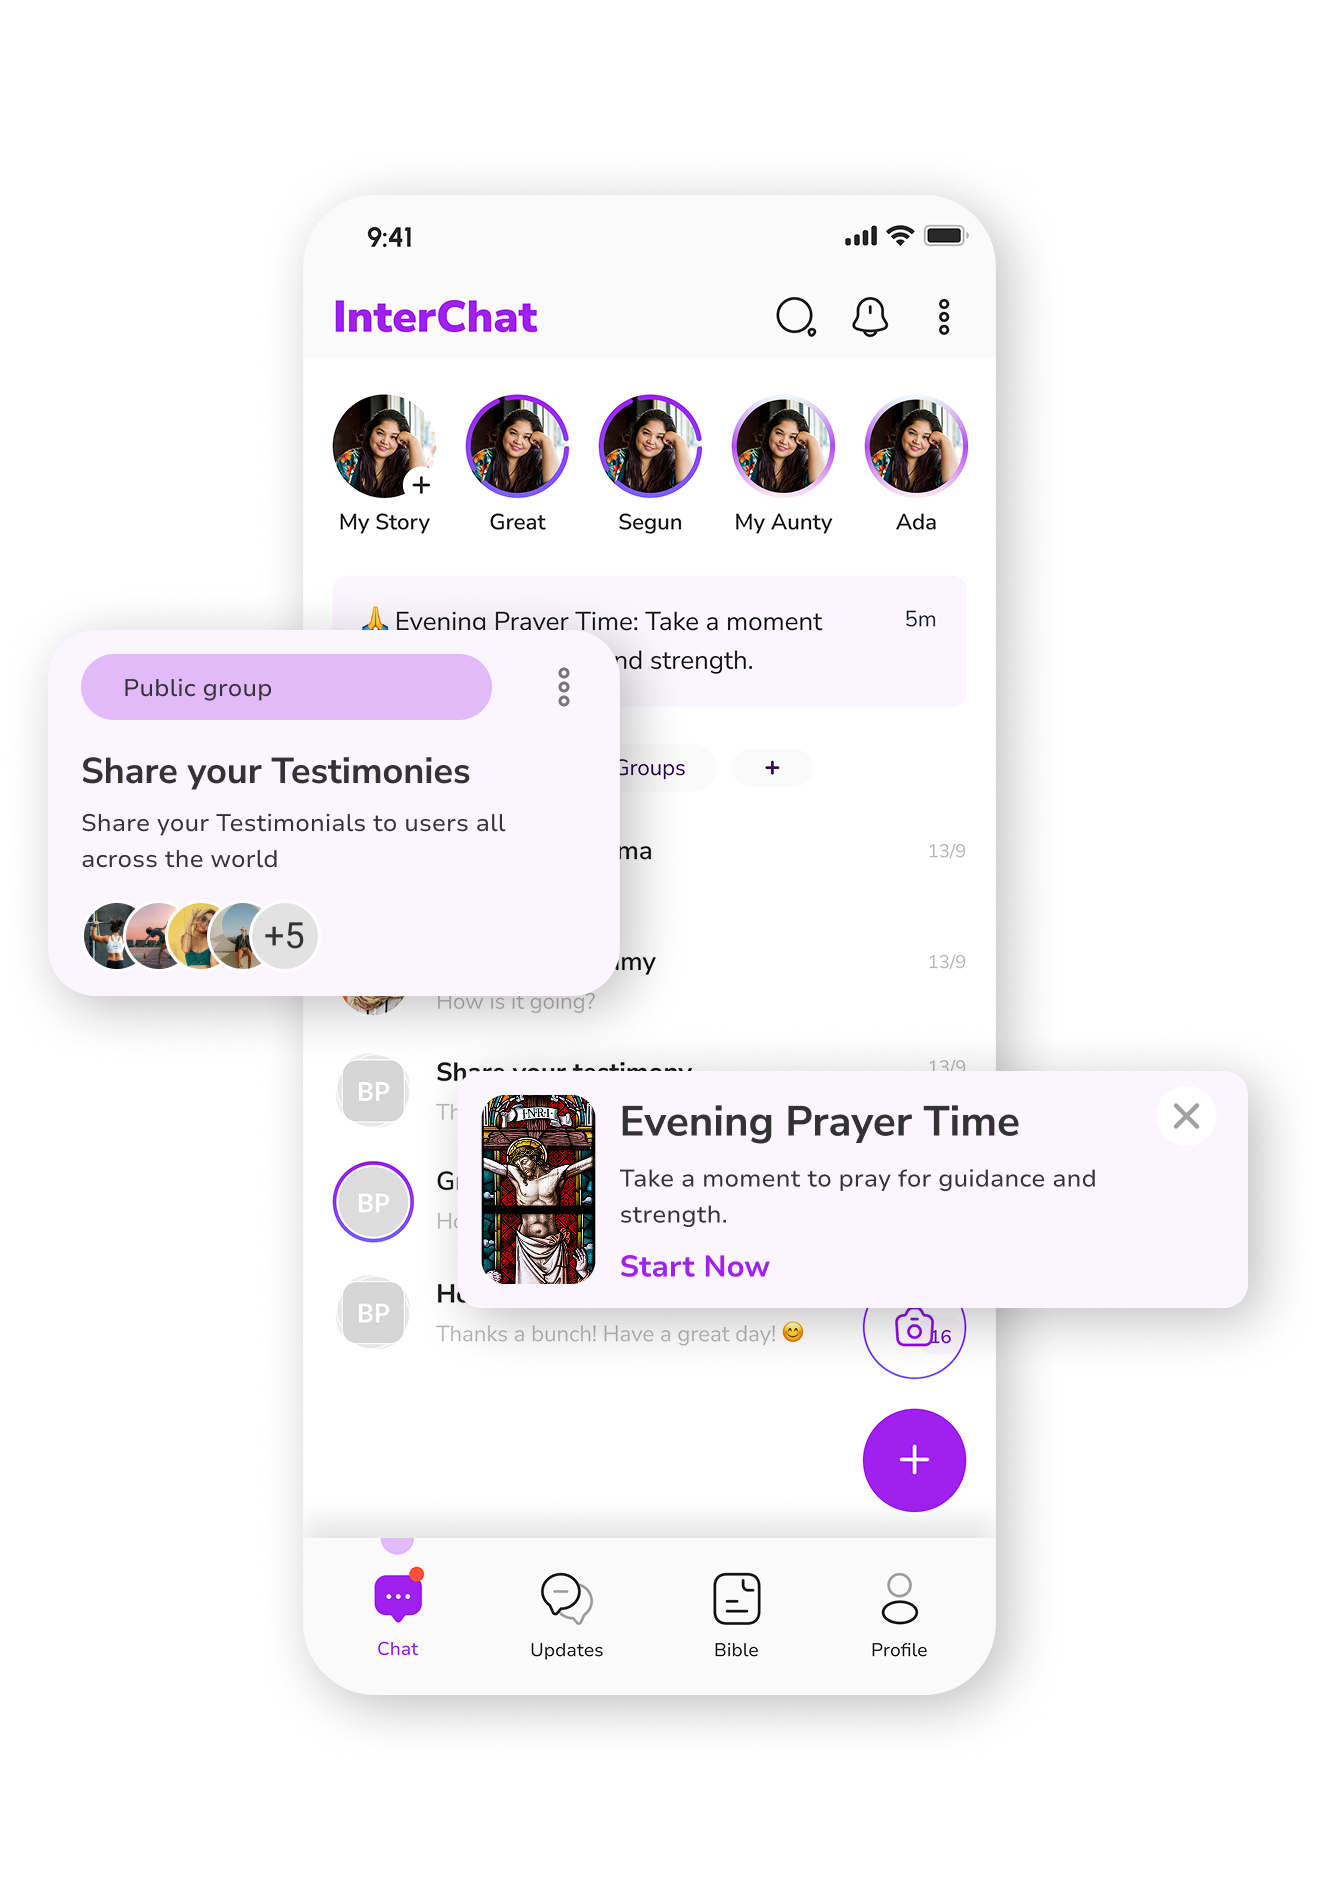
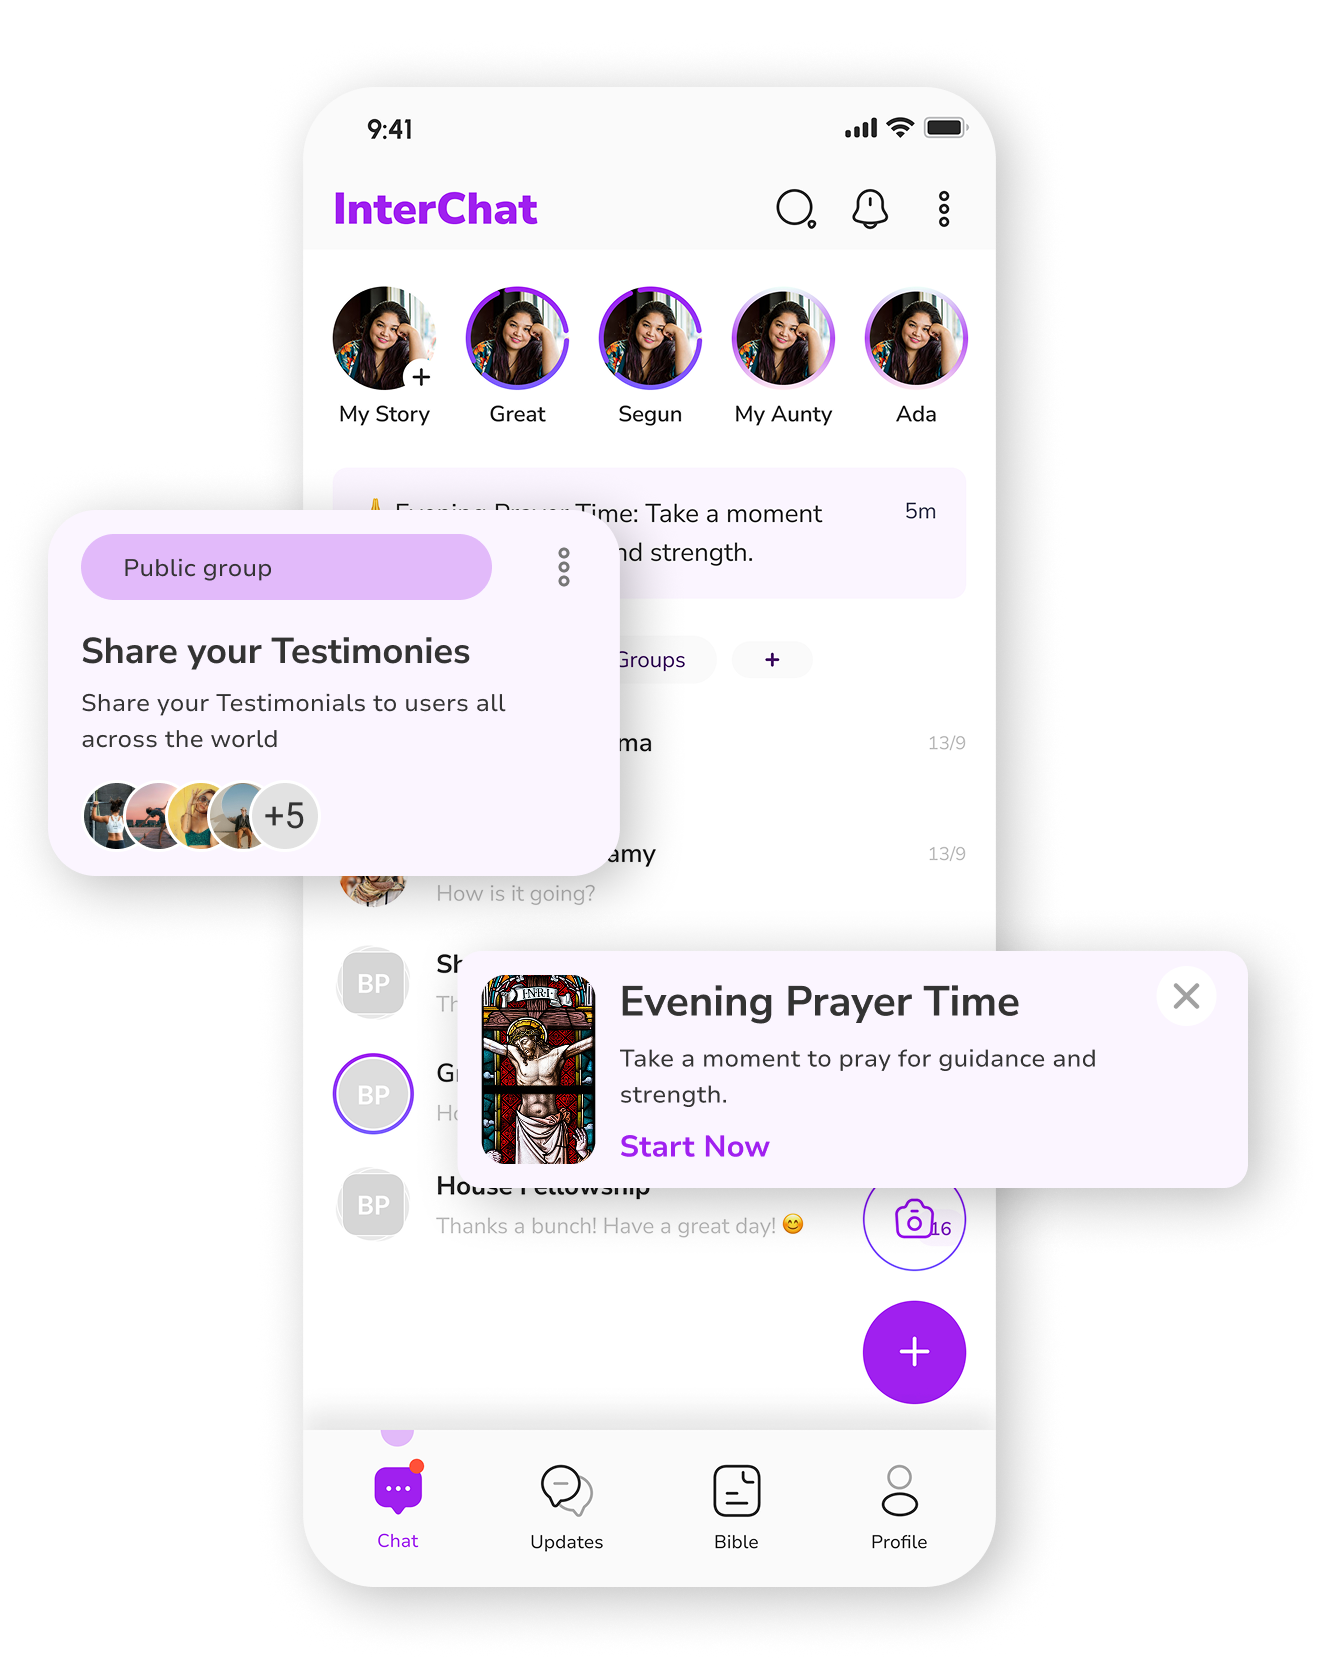
Home page and images update

Changed region(s): [[0.0621, 0.0622, 0.9629, 0.9647], [0.4659, 0.4357, 0.497, 0.4668]]

diff --git a/assets/css/styles.css b/assets/css/styles.css
@@ -131,7 +131,7 @@ svg {
 /*=============== REUSABLE CSS CLASSES ===============*/
 .container {
   max-width: 100%;
-  margin-inline: 3rem;
+  margin-inline: 1.5rem;
 }
 
 .grid {
@@ -140,7 +140,7 @@ svg {
 }
 
 .section {
-  padding-block: 5rem 2rem;
+  padding-block: 3rem 1.5rem;
 }
 
 .section__title, 
@@ -311,10 +311,9 @@ svg {
   position: relative;
   align-items: center;
   text-align: center;
-  background-color: var(--container-color);
   overflow: hidden;
   border-radius: 1.5rem;
-  padding: 4rem 1.5rem 0 1.5rem;
+  padding: 4rem 1.5rem 2rem 1.5rem;
 }
 
 .home__bitmoji{
@@ -363,30 +362,20 @@ svg {
 }
 
 .home__img{
-  width: 250px;
+  width: 100%;
   height: auto;
 }
 
-.home__img2{
-  position: absolute;
-  top: 50px;
-  left: 12px;
-  width: 180px;
-  height: auto;
-  border-radius: 8px;
-  z-index: 1;
-  box-shadow: 0 4px 20px rgba(0, 0, 0, 0.25);
+.home__info{
+  padding: 1rem;
 }
 
-.home__img3{
-  position: absolute;
-  bottom: 20px;
-  right: 0;
-  width: 200px;
-  height: auto;
-  border-radius: 8px;
-  z-index: 1;
-  box-shadow: 0 4px 20px rgba(0, 0, 0, 0.25);
+.home__info-title{
+  font-size: var(--normal-font-size);
+}
+
+.brand{
+  color: var(--first-color);
 }
 
 
@@ -428,7 +417,7 @@ svg {
 }
 
 .store-button {
-  width: 184px;
+  width: 154px;
   height: auto;
   transition: transform 0.3s ease;
 }
@@ -535,43 +524,6 @@ about__bg{
   z-index: 100;
 }
 
-.about__img-main{
-  width: 300px;
-  height: auto;
-}
-
-.about__img1{
-  position: absolute;
-  top: 0;
-  left: 50px;
-  width: 80px;
-  height: auto;
-  z-index: 1;
-}
-.about__img2{
-  position: absolute;
-  bottom: 40px;
-  left: 35px;
-  width: 50px;
-  height: auto;
-  z-index: 1;
-}
-.about__img3{
-  position: absolute;
-  top: 0;
-  right: 30px;
-  width: 80px;
-  height: auto;
-  z-index: 1;
-}
-.about__img4{
-  position: absolute;
-  bottom: 20px;
-  right: 10px;
-  width: 80px;
-  height: auto;
-  z-index: 1;
-}
 
 
 /*=============== FEATURES CARDS ===============*/
@@ -584,16 +536,14 @@ about__bg{
 
 .feature__content{
   display: grid;
-  gap: 4rem;
+  gap: 1rem;
   justify-content: center;
-  padding: 1.5rem 0;
   border-radius: 1.5rem;
   margin-bottom: var(--mb-2-5);
 }
 
-feature__data{
-  padding: 5rem 0;
-  margin-bottom: var(--mb-2-5);
+.feature__data{
+  padding: 2rem 2rem;
 }
 
 .feature__title{
@@ -965,6 +915,7 @@ feature__data{
 /*=============== BREAKPOINTS ===============*/
 /* For small devices */
 @media screen and (max-width: 320px){
+
   .container {
     margin-inline: 1rem;
   }
@@ -973,10 +924,15 @@ feature__data{
     padding-inline: 3rem;
   }
 
+  .home__img{
+    width: 420px;
+  }
+
   .footer__data{
     grid-template-columns: 1fr;
     row-gap: 2rem;
   }
+
 }
 
 /* For medium devices */
@@ -984,6 +940,7 @@ feature__data{
   .feature__data{
     width: 290px;
   }
+
 
 }
 
@@ -1011,6 +968,12 @@ feature__data{
 }
 
 @media screen and (min-width: 768px) {
+
+  .container {
+  max-width: 100%;
+  margin-inline: 3rem; 
+  }
+
   .home__container{
     grid-template-columns: 580px;
   }
@@ -1146,7 +1109,7 @@ feature__data{
 }
 
 .home__img{
-  width: 450px;
+  width: 100%;
   height: auto;
 }
 

diff --git a/index.html b/index.html
@@ -101,11 +101,21 @@
                     </div>
 
                     <div class="home__image">
-                        <img src="assets/img/home_main.png" class="home__img" alt="home-main">
-                        <img src="assets/img/Group_items.png" alt="group-img" class="home__img2">
-                        <img src="assets/img/Challenge.png" alt="challenge" class="home__img3">
+                        <img src="assets/img/F-main1.png" class="home__img" alt="home-main">
                     </div>
+
+
+                    <div class="home__info">
+                        <h4 class="home__info-title">
+                            <span class="brand">InterChat</span> uses technology to empower Christians, 
+                            fostering meaningful faith-based connections through prayer, scripture, 
+                            conversation, and daily community.
+                        </h4>
+                    </div>
+                    
+
                 </div>
+
             </section>
 
 
@@ -114,17 +124,11 @@
                 <div class="about__container container grid">
                     <div class="about__data about__bg">
                         <h2 class="about__title">
-                            InterChat uses technology to empower Christians, 
-                            fostering meaningful faith-based connections through prayer, scripture, 
-                            conversation, and daily community.
+                            Why Join InterChat?
                         </h2>
 
                         <div class="about__image">
-                            <img src="assets/img/Feature_img.png" class="about__img-main" alt="">
-                            <img src="assets/img/Chat/about_img/Persona chat bubbles-2.png" class="about__img1" alt="">
-                            <img src="assets/img/Chat/about_img/Persona chat bubbles.png" class="about__img2" alt="">
-                            <img src="assets/img/Chat/about_img/Voice.png" class="about__img3" alt="">
-                            <img src="assets/img/Chat/about_img/Persona chat bubbles-1.png" class="about__img4" alt="">
+                            <img src="assets/img/home_img.png" class="about__img-main" alt="About InterChat">
                         </div>
 
                     </div>
